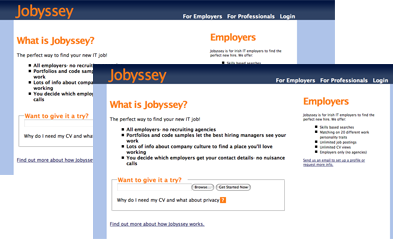
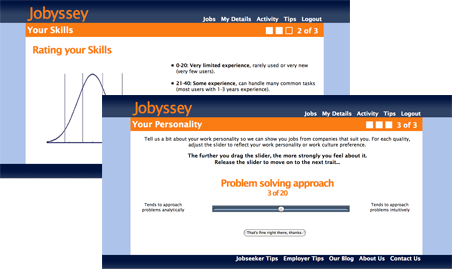
Changed position of navbar

diff --git a/public/stylesheets/new.css b/public/stylesheets/new.css
@@ -1,6 +1,6 @@
 /* Header */
 #mainpage{
-	width: 400px;
+	width: 350px;
 	display: inline;
 	float: left;
 	color: #000000;	
@@ -116,24 +116,26 @@
 	text-align:right;
 	float: right;
 	display: block;
-	margin-top: -17px;
-	
+	margin-top: 54px;
 }
+
 #navbar a{
-	color:#FFF;
+	color:#fff;
 	text-decoration:none;
 }
+
 #navbar ul {
 	list-style-type: none;
-	display: inline;
+
 }
+
 #navbar li {
 	list-style-type: none;
-	display: inline;
+    display: inline;
 	margin-right:10px;
-	margin-top: -20px;
+	margin-top: 40px;
 	font-weight: bold;
-	color: #ffffff;
+	color: #fff;
 }
 
 #loginbar {
